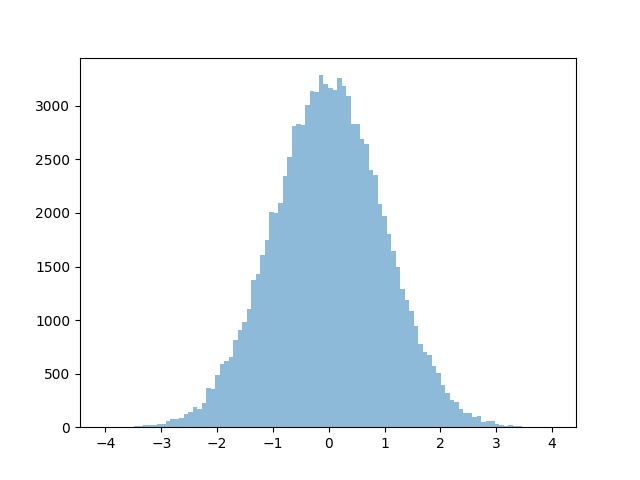
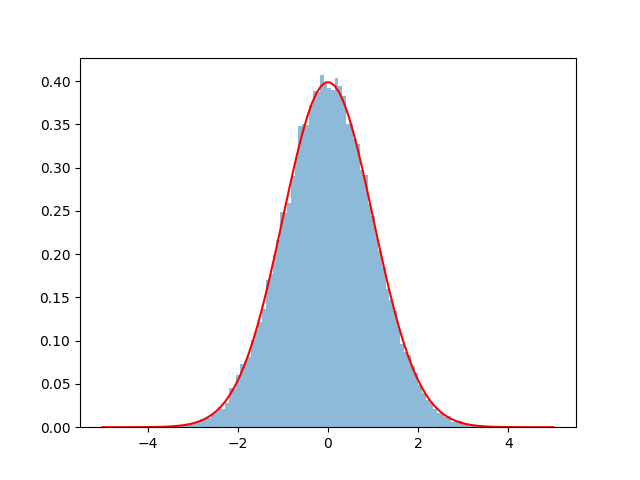
fix

diff --git a/src/mcmc/chapter3/metropolis.py b/src/mcmc/chapter3/metropolis.py
@@ -27,7 +27,10 @@ for i in range(n-1):
         x = backup_x
     x_list.append(x)
 
-plt.hist(x_list, bins=100, alpha=0.5, label='x')
+plt.hist(x_list, bins=100,density=True, alpha=0.5, label='x')
+x_data = jnp.linspace(-5, 5, 100)
+y_data = jnp.exp(-0.5 * x_data**2 ) / jnp.sqrt(2 * jnp.pi)  
+plt.plot(x_data, y_data, label='True', color='r')
 
 file_name = __file__.split('/')[-1].replace('.py', '')
 plt.savefig(f'{file_name}.png')
